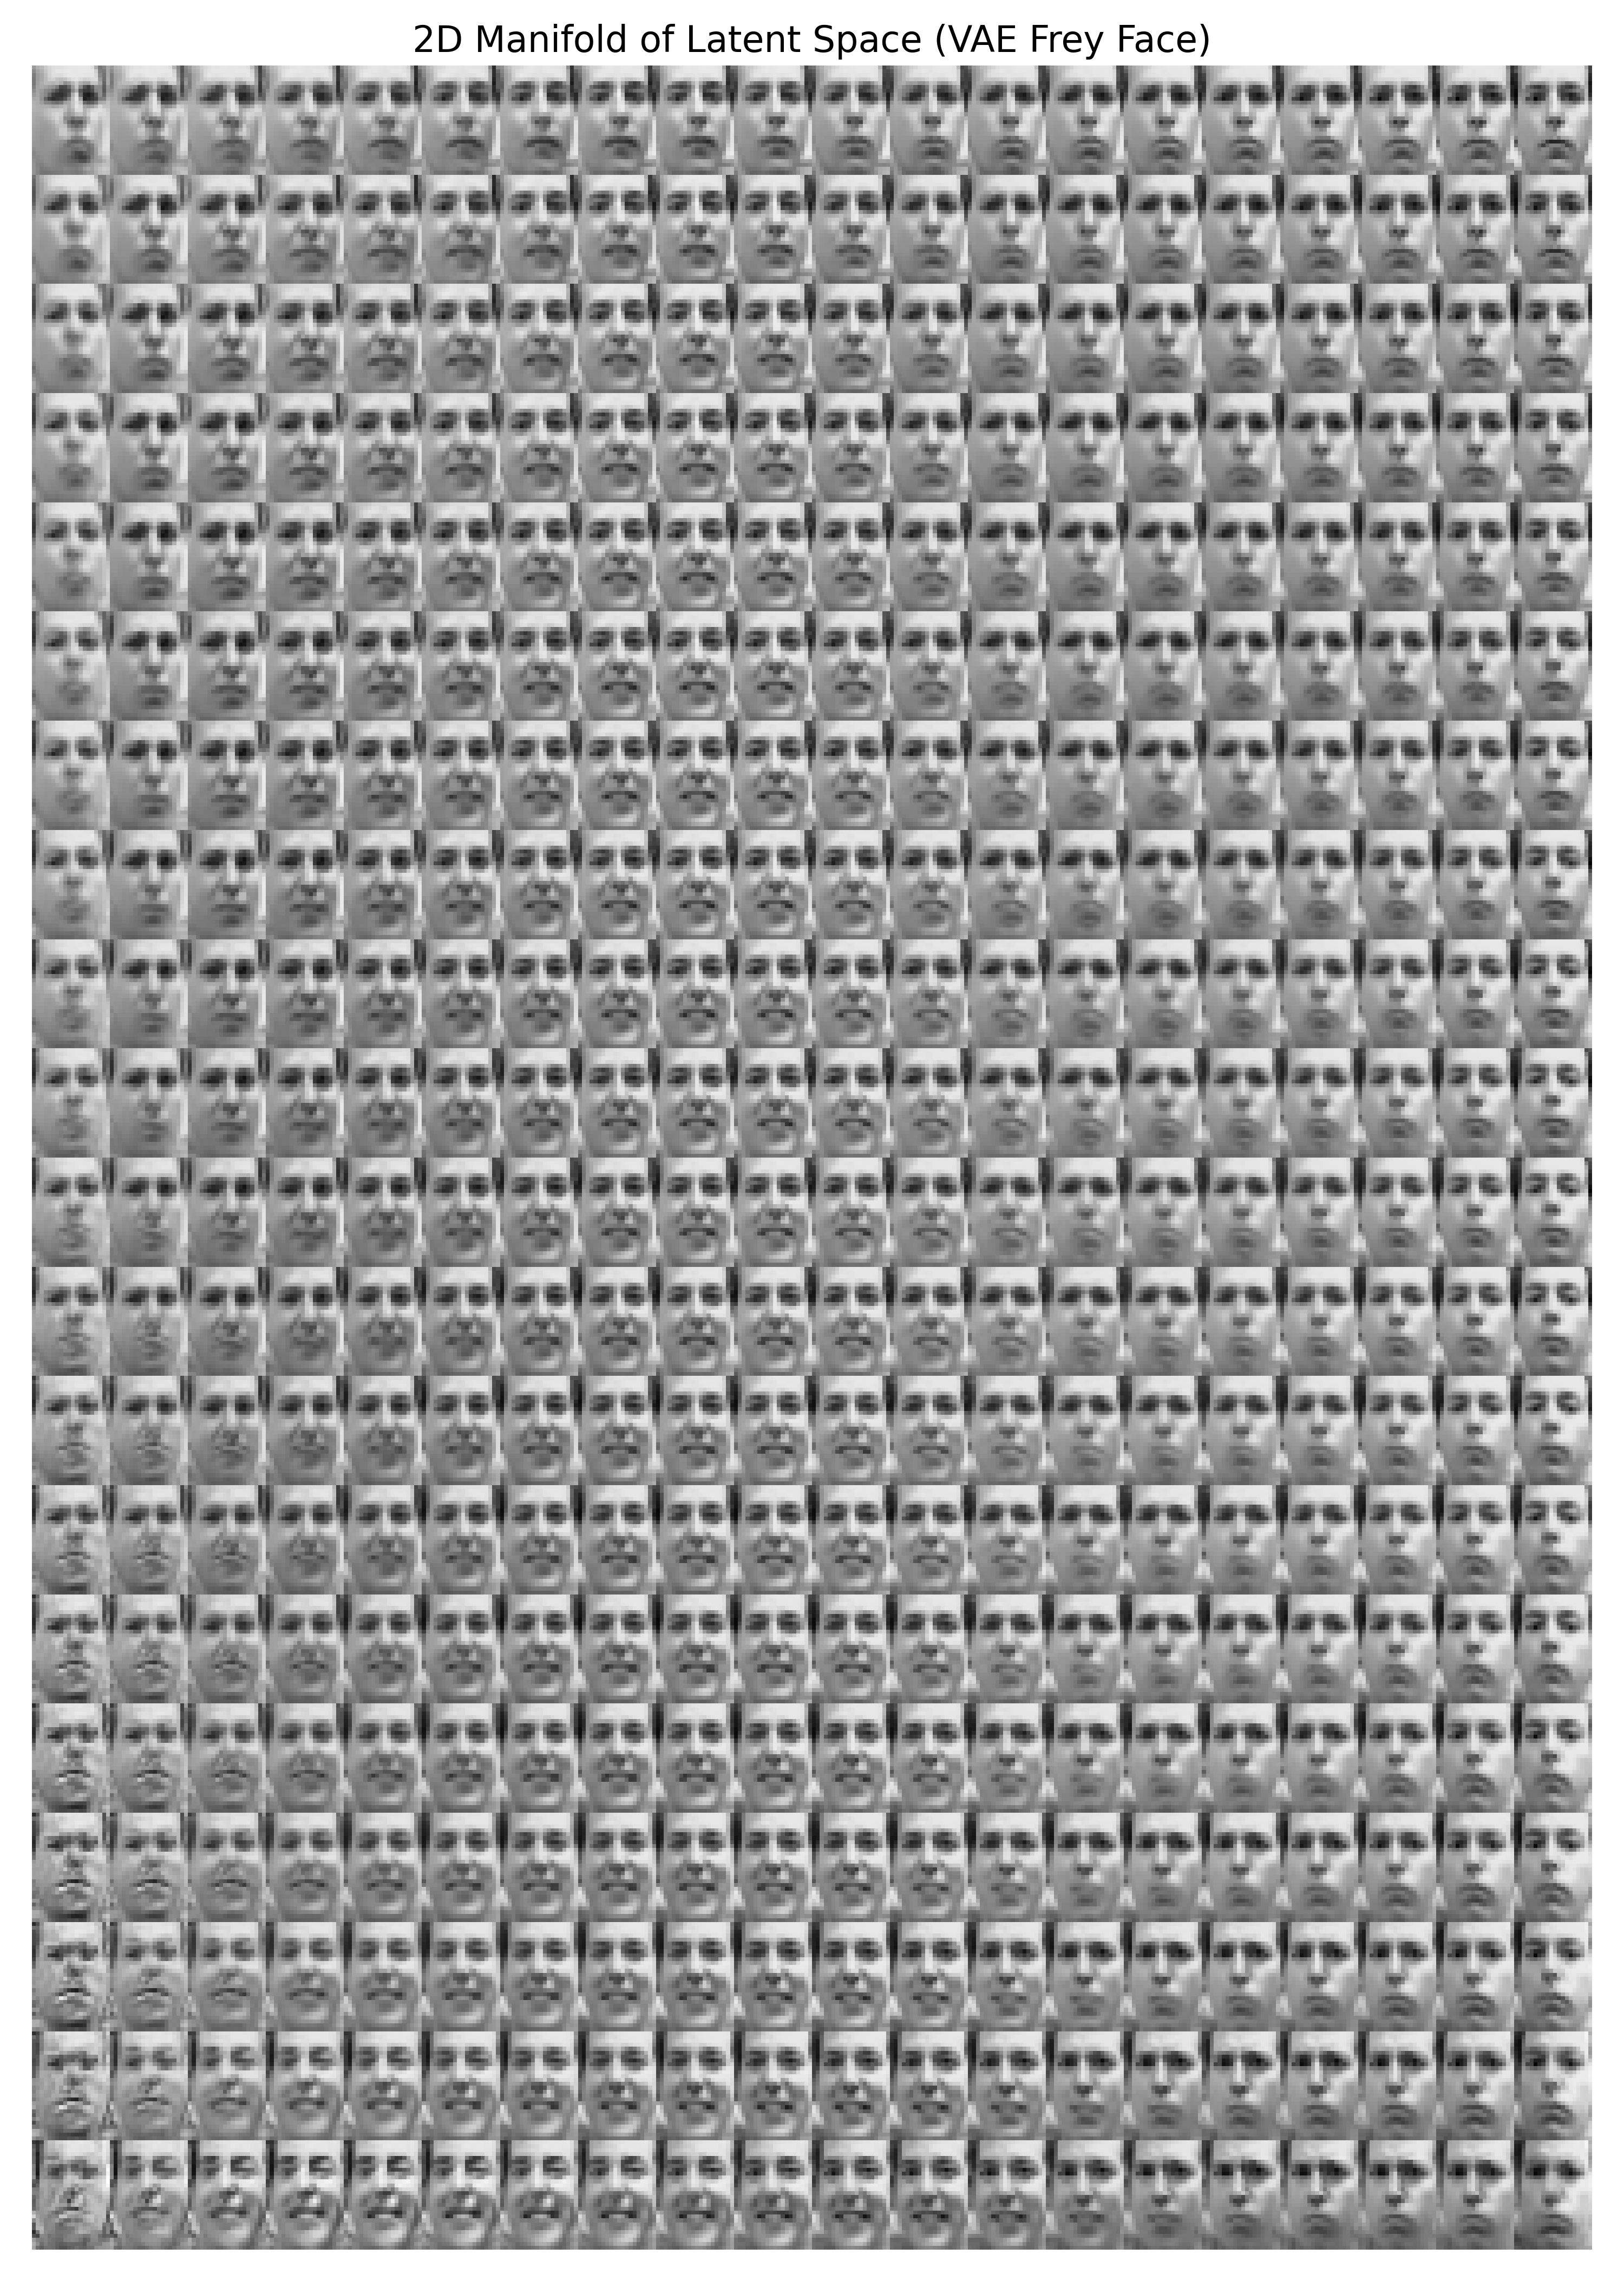
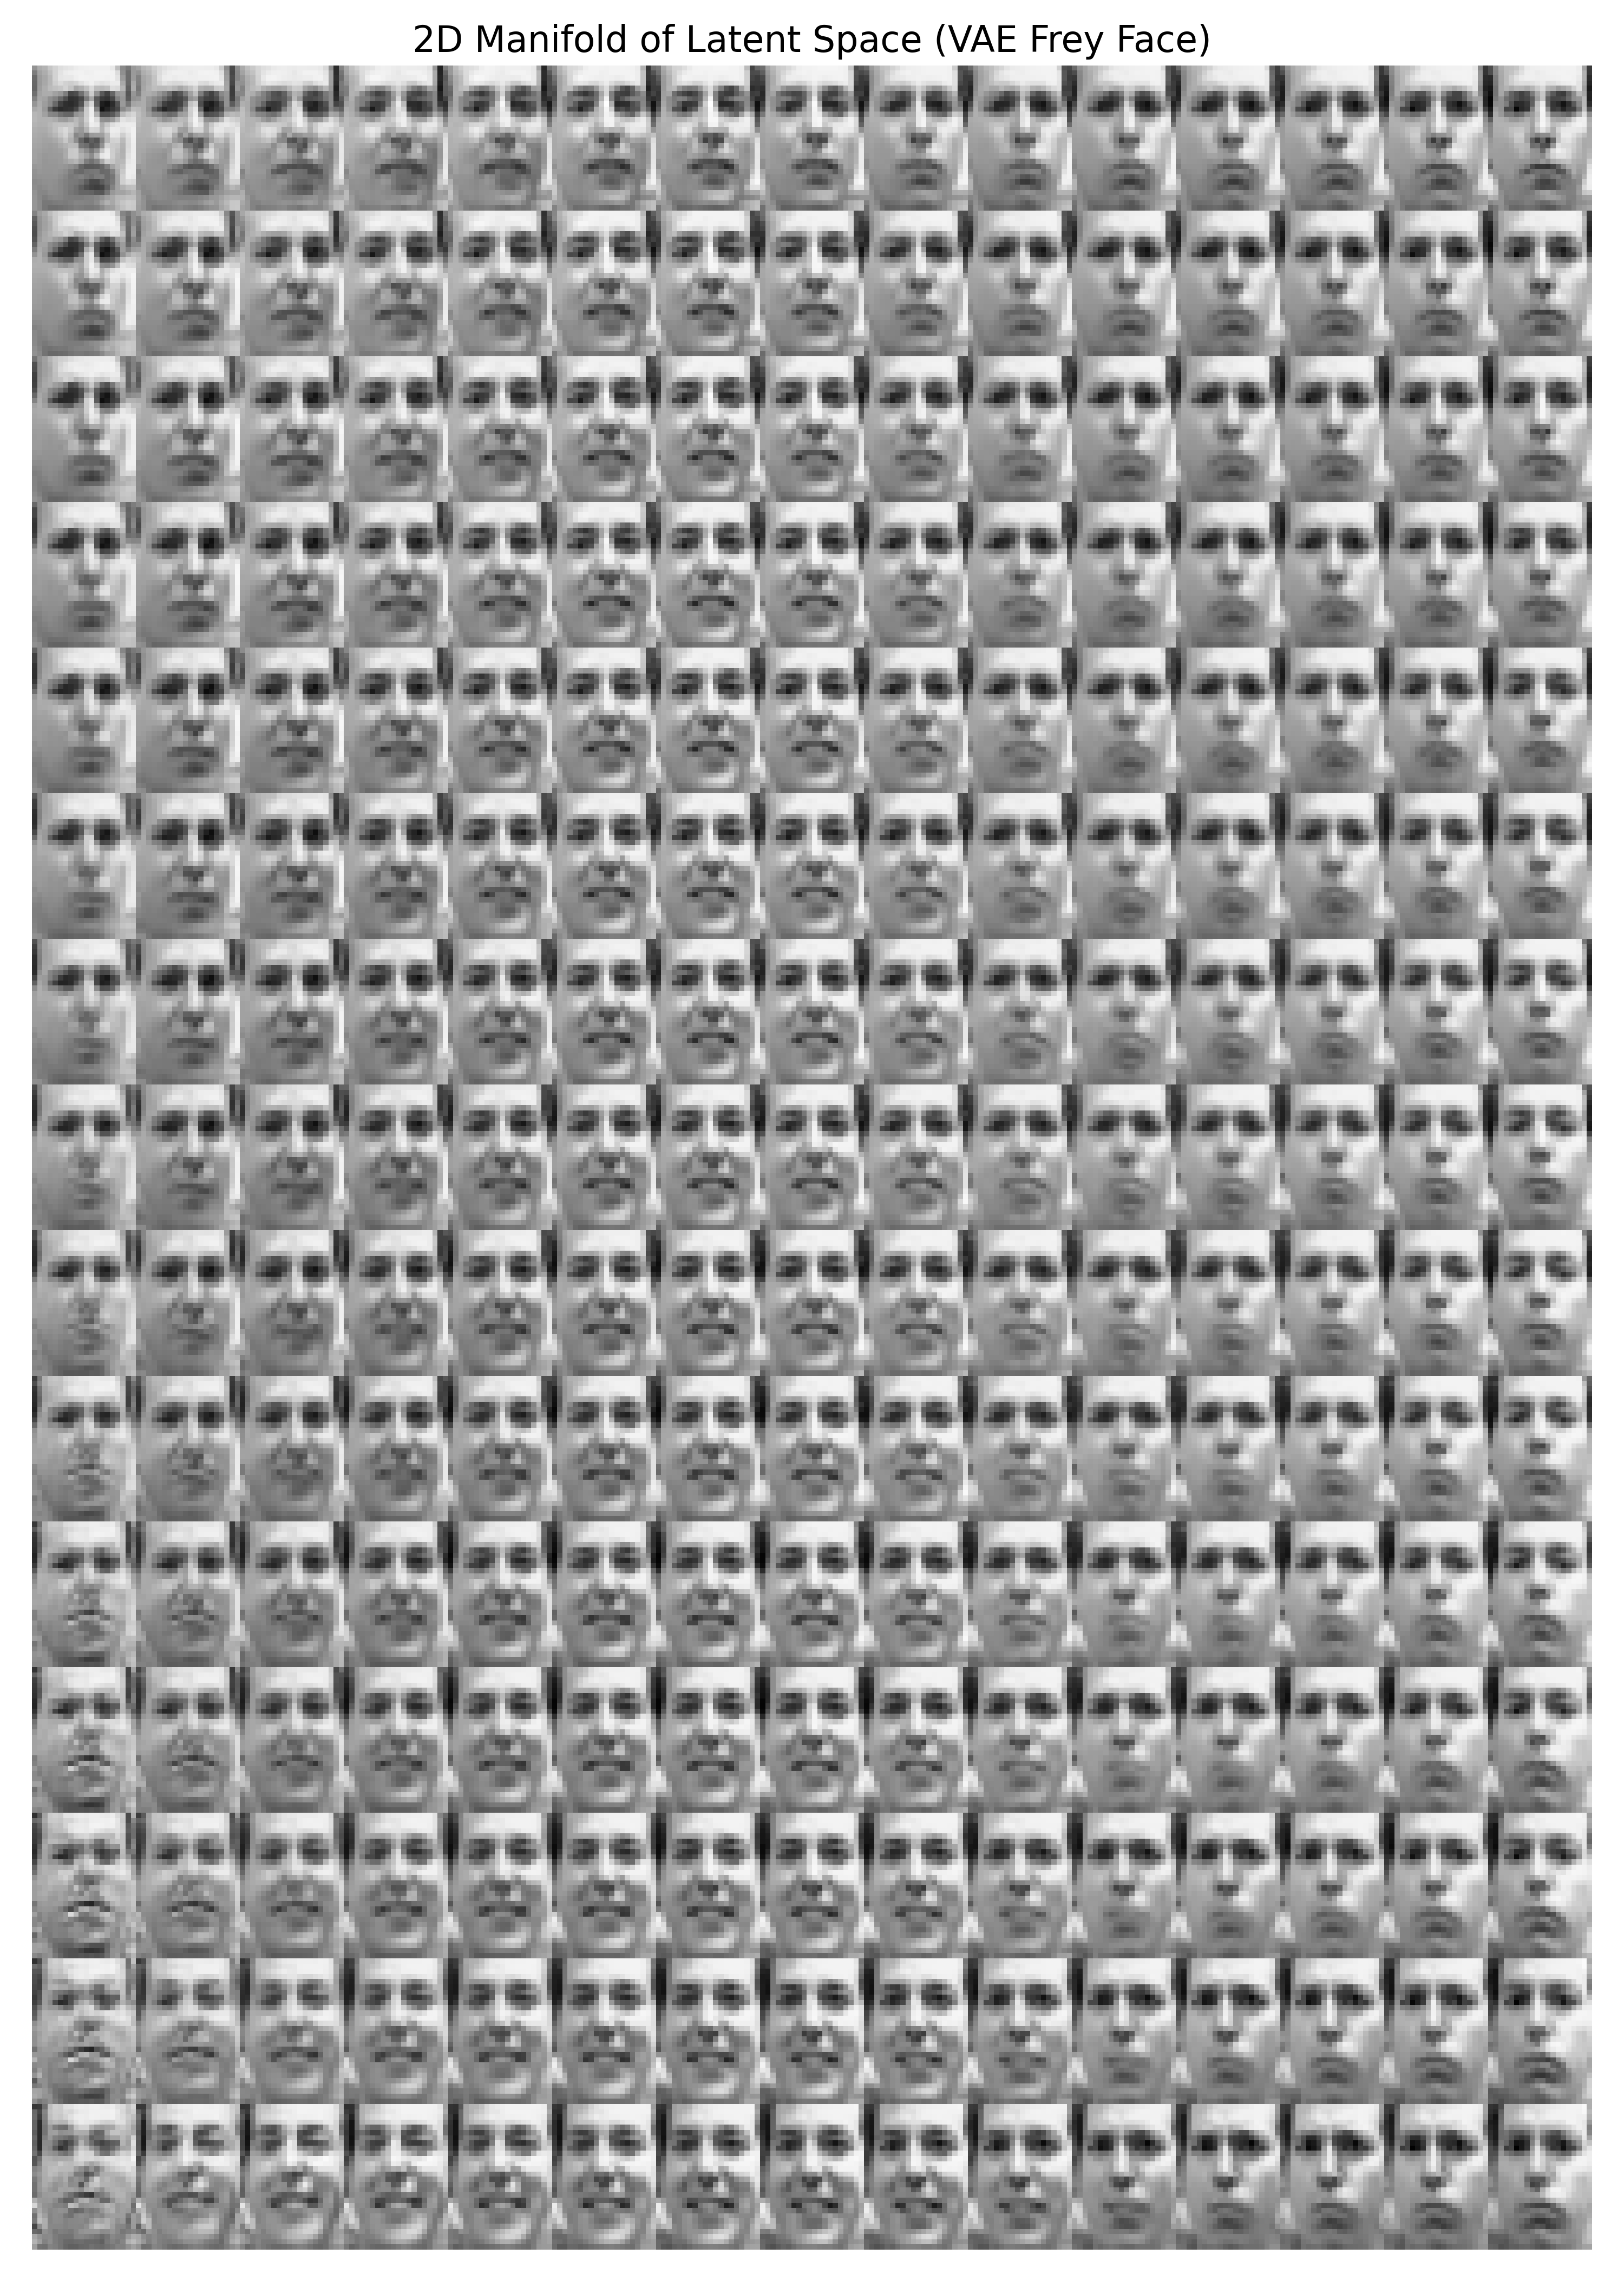
added readme with some results

diff --git a/models/loss.py b/models/loss.py
@@ -24,10 +24,6 @@ def vae_loss(recon_output, x, mu, log_var, dataset='mnist'):
     # Kullback-Leibler Divergence (KLD)
     # Closed-form solution from Kingma & Welling (2013).
     # This remains exactly the same for all AEVB models.
-    # KLD is the same for both
-    # Kullback-Leibler Divergence (KLD)
-    # Closed-form solution from Kingma & Welling (2013).
-    # This remains exactly the same for all AEVB models.
     KLD = -0.5 * torch.sum(1 + log_var - mu.pow(2) - log_var.exp())
 
     if dataset == 'mnist':
@@ -38,13 +34,7 @@ def vae_loss(recon_output, x, mu, log_var, dataset='mnist'):
         # Unpack the tuple
         recon_mu, recon_log_var = recon_output
 
-        # PREVENT VARIANCE COLLAPSE 
-        # Clamp the log variance so it cannot drop below -3.0 (variance of ~0.05).
-        # This mathematically stops the division-by-zero gradient explosion.
-        # We implemented this because we observed that the training ws unstable and the model was collapsing
         sq_err = (recon_mu - x).pow(2)
-        
-        # The pure, unconstrained math
         recon_loss = 0.5 * torch.sum(math.log(2 * math.pi) + recon_log_var + sq_err / recon_log_var.exp())
         
     total_loss = recon_loss + KLD

diff --git a/generate_manifold_ff.py b/generate_manifold_ff.py
@@ -12,12 +12,11 @@ def plot_frey_manifold():
     latent_dim = 2
     model = VAE(input_dim=560, latent_dim=latent_dim, hidden_dim=200, dataset='frey_face').to(device)
     
-    # IMPORTANT: Update this to point to your actual Frey Face .pth file
     model.load_state_dict(torch.load("checkpoints/aevb_frey_face_2d.pth", weights_only=True))
     model.eval()
 
     # Create the canvas for the 20x20 grid of images
-    n = 20
+    n = 15
     height = 28
     width = 20
     
@@ -25,8 +24,8 @@ def plot_frey_manifold():
     figure = np.zeros((height * n, width * n))
 
     # Generate X and Y axes using the inverse CDF (norm.ppf)
-    grid_x = norm.ppf(np.linspace(0.01, 0.99, n))
-    grid_y = norm.ppf(np.linspace(0.01, 0.99, n))
+    grid_x = norm.ppf(np.linspace(0.05, 0.95, n))
+    grid_y = norm.ppf(np.linspace(0.05, 0.95, n))
 
     with torch.no_grad():
         for i, yi in enumerate(grid_y):

diff --git a/generate_manifold.py b/generate_manifold.py
@@ -20,8 +20,8 @@ def plot_manifold():
 
     # Generate X and Y axes using the inverse CDF (norm.ppf)
     # This distributes points based on the probability of a standard normal N(0,1)
-    grid_x = norm.ppf(np.linspace(0.01, 0.99, n))
-    grid_y = norm.ppf(np.linspace(0.01, 0.99, n))
+    grid_x = norm.ppf(np.linspace(0.05, 0.95, n))
+    grid_y = norm.ppf(np.linspace(0.05, 0.95, n))
 
     with torch.no_grad():
         for i, yi in enumerate(grid_y):

diff --git a/train_wake_sleep_metrics.py b/train_wake_sleep_metrics.py
@@ -145,7 +145,6 @@ def train_wake_sleep(dataset='mnist', latent_dim=20, epochs=50, batch_size=128,
                 recon_mu = model.dec_mu(h_dec)
                 recon_log_var = model.dec_log_var(h_dec)
                 
-                # Apply the variance clamp to prevent gradient explosion!
                 sq_err = (recon_mu - data).pow(2)
                 
                 # Raw math

diff --git a/README.md b/README.md
@@ -1,0 +1,327 @@
+# Variational Autoencoders (VAE)
+
+This project implements Variational Autoencoders for unsupervised learning, comparing two training approaches: the modern AEVB algorithm and the classical Wake-Sleep algorithm. Experiments are performed on two datasets with different observation models: MNIST (Bernoulli) and Frey Face (Gaussian).
+
+## Developers
+
+Gerardo Obeid Guzmán
+Jorge Echeverría de Uribarri
+
+## Papers Cited
+
+- **Auto-Encoding Variational Bayes** (Kingma & Welling, 2013)
+  - Primary reference for the AEVB training algorithm using the reparameterization trick
+  - Details on the ELBO objective and the theoretical foundation of VAEs
+
+- **The Wake-Sleep Algorithm for Unsupervised Neural Networks** (Hinton et al., 1995)
+  - Classical alternative training approach demonstrating separate update phases
+  - Provides historical context and comparison baseline
+
+## Project Structure
+
+```
+vae/
+├── models/
+│   ├── vae.py               # VAE architecture (dataset-specific decoders)
+│   └── loss.py              # Negative ELBO loss (Bernoulli or Gaussian)
+├── utils/
+│   ├── get_dataset.py       # MNIST data loading
+│   ├── dataset.py           # Custom dataset for binarized MNIST
+│   └── frey_face.py         # Frey Face dataset loading
+├── data/                    # Datasets (auto-downloaded)
+├── checkpoints/             # Saved model weights
+├── results/                 # Generated visualizations and metrics
+├── train_aevb_metrics.py    # AEVB training with metrics tracking
+├── train_wake_sleep_metrics.py # Wake-Sleep training with metrics tracking
+├── train_all_parallel.py    # Parallel training pipeline (ThreadPoolExecutor)
+├── generate.py              # Generate random samples from latent space
+├── generate_manifold.py     # Visualize 2D latent space manifold (MNIST)
+├── generate_manifold_ff.py  # Visualize 2D latent space manifold (Frey Face)
+├── plot_comparison.py       # Plot AEVB vs Wake-Sleep comparison (Figure 2)
+├── model_complexity.py      # Analyze model complexity vs performance trade-off
+└── requirements.txt         # Python dependencies
+```
+
+## Key Features
+
+### VAE Architecture
+
+#### Encoder (Shared across all datasets)
+
+- **Architecture**: 1-layer MLP (input_dim → hidden_dim → latent_dim)
+- **Hidden dim**: 500 (MNIST), 200 (Frey Face)
+- **Outputs**: Mean (μ) and log-variance (log σ²) of latent Gaussian distribution
+
+#### Decoder (Dataset-Specific)
+
+**MNIST - Bernoulli Decoder**
+
+- **Architecture**: 2-layer MLP (latent_dim → hidden_dim → 784)
+- **Output activation**: Sigmoid (produces [0,1] probabilities)
+- **Observation model**: p(x|z) = Bernoulli per pixel (binary values)
+- **Loss function**: Binary cross-entropy (BCE)
+
+**Frey Face - Gaussian Decoder**
+
+- **Architecture**: Shared hidden layer (latent_dim → hidden_dim → Tanh), then split heads:
+  - Mean head: (hidden_dim → 560, Sigmoid)
+  - Variance head: (hidden_dim → 560)
+- **Output activation**: Sigmoid on mean (constrain to [0,1]), unrestricted variance
+- **Observation model**: p(x|z) = Gaussian per pixel (continuous values)
+- **Loss function**: Gaussian negative log-likelihood
+
+#### Latent Distribution
+
+- **Prior**: Standard Gaussian p(z) = N(0, I)
+- **Posterior**: Learned Gaussian q(z|x) = N(μ(x), diag(σ²(x)))
+
+### Training Methods
+
+#### AEVB (Auto-Encoding Variational Bayes)
+
+Joint optimization of encoder and decoder using the reparameterization trick:
+
+- **Objective**: Minimize negative ELBO: `-E_q[log p(x|z)] + KL[q(z|x) || p(z)]`
+- **Reparameterization**: z = μ(x) + σ(x) ⊙ ε, where ε ~ N(0,I)
+- **Optimization**: Single optimizer (Adagrad with weight decay) updates both encoder and decoder simultaneously
+- **Reconstruction Loss**:
+  - MNIST: Binary cross-entropy (Bernoulli decoder)
+  - Frey Face: Gaussian negative log-likelihood
+- **Reference**: Modern, efficient approach (Kingma & Welling, 2013)
+
+#### Wake-Sleep Algorithm
+
+Alternating optimization of encoder and decoder with separate phases and optimizers:
+
+- **Wake Phase** (optimize decoder p(x|z)):
+  - Sample z ~ q(z|x) from encoder (no gradients through posterior)
+  - Minimize reconstruction loss:
+    - MNIST: Binary cross-entropy (Bernoulli probabilities)
+    - Frey Face: Gaussian NLL with Sigmoid-constrained mean
+- **Sleep Phase** (optimize encoder q(z|x)):
+  - Sample z ~ p(z) from prior N(0,I)
+  - **Generate dreamed data** x̃ ~ p(x|z):
+    - MNIST: Bernoulli sampling (convert probabilities to binary via sampling)
+    - Frey Face: Gaussian sampling with reparameterization trick
+  - Minimize encoder's Gaussian NLL: make q(z|x̃) assign high density to z that generated the dream
+- **Optimization**: Separate Adagrad optimizers (with weight decay) for generative and recognition models
+- **Reference**: Historical baseline showing separate-phase optimization (Hinton et al., 1995)
+
+## Usage
+
+### Quick Start: Single Model Training
+
+#### Train AEVB on MNIST
+
+```bash
+python train_aevb_metrics.py --dataset mnist --latent_dim 20 --epochs 50
+```
+
+#### Train Wake-Sleep on Frey Face
+
+```bash
+python train_wake_sleep_metrics.py --dataset frey_face --latent_dim 20 --epochs 50
+```
+
+### Full Experimental Pipeline (Parallel Training)
+
+To reproduce all experiments and generate Figure 2 comparison plot:
+
+```bash
+python train_all_parallel.py
+```
+
+This will:
+
+1. Train all 18 configurations in parallel (9 workers):
+   - **MNIST**: Nz ∈ {3, 5, 10, 20, 200} with AEVB & Wake-Sleep
+   - **Frey Face**: Nz ∈ {2, 5, 10, 20} with AEVB & Wake-Sleep
+2. Save metrics to `results/metrics/` (format: `{method}_{dataset}_{latent_dim}d_metrics.json`)
+3. Automatically generate comparison plot at `results/comparison_aevb_vs_wake_sleep.png`
+
+### Manual Configuration-by-Configuration
+
+For individual experiments or troubleshooting:
+
+```bash
+# MNIST with increasing latent dimensions
+python train_aevb_metrics.py --dataset mnist --latent_dim 3 --epochs 200 --batch_size 100 --lr 0.02
+python train_wake_sleep_metrics.py --dataset mnist --latent_dim 3 --epochs 200 --batch_size 100 --lr 0.02
+
+# Frey Face (uses more epochs for convergence)
+python train_aevb_metrics.py --dataset frey_face --latent_dim 2 --epochs 6107 --batch_size 100 --lr 0.02
+python train_wake_sleep_metrics.py --dataset frey_face --latent_dim 2 --epochs 6107 --batch_size 100 --lr 0.02
+
+# Generate comparison plot after training
+python plot_comparison.py
+```
+
+### Other Utilities
+
+#### Generate random samples
+
+```bash
+python generate.py
+```
+
+#### Visualize 2D latent space manifold (MNIST)
+
+```bash
+python generate_manifold.py
+```
+
+Output: `results/manifold_vae_mnist.png` (15×15 grid of generated digits)
+
+#### Visualize 2D latent space manifold (Frey Face)
+
+```bash
+python generate_manifold_ff.py
+```
+
+Requirements: Trained AEVB model with latent_dim=2 at `checkpoints/aevb_frey_face_2d.pth`
+Output: `results/manifold_vae_freyface.png` (15×15 grid of generated faces)
+
+#### Analyze model complexity vs performance
+
+```bash
+python model_complexity.py
+```
+
+Creates a table and dual-axis plot showing:
+
+- Parameter count growth across latent dimensions (log scale)
+- Final train/test ELBO scores for convergence comparison
+- Outputs: `results/complexity_vs_overfitting.png` and printed markdown table
+
+## Key Implementation Details
+
+### Hyperparameters
+
+- **Batch Size**: 100 (matches paper exactly)
+- **Learning Rate**: 0.02 (Adagrad with weight decay)
+- **Weight Decay**: 1e-4 (implements N(0, I) prior)
+- **Latent Samples (L)**: 1 sample per datapoint; large batch provides natural gradient noise
+
+### Decoder Configuration
+
+| Dataset   | Architecture                | Output Activation       | Loss Function        | Sampling (Sleep)              |
+| --------- | --------------------------- | ----------------------- | -------------------- | ----------------------------- |
+| MNIST     | 2-layer MLP                 | Sigmoid (probabilities) | Binary cross-entropy | Bernoulli                     |
+| Frey Face | Split heads (mean/variance) | Sigmoid mean            | Gaussian NLL         | Gaussian (reparameterization) |
+
+### Optimizer Configuration
+
+- **AEVB**: Single Adagrad optimizer for all parameters
+- **Wake-Sleep**: Separate Adagrad optimizers for:
+  - Generative model (decoder parameters)
+  - Recognition model (encoder parameters)
+
+## Results
+
+### Comparison Plot (Figure 2 from Kingma & Welling)
+
+The comparison plot shows training efficiency (negative ELBO vs samples evaluated) across latent dimensions:
+
+**Top row**: MNIST (Bernoulli decoder)
+
+- 5 subplots for Nz = {3, 5, 10, 20, 200}
+- AEVB generally converges faster than Wake-Sleep
+- Faster convergence at lower latent dimensions
+
+**Bottom row**: Frey Face (Gaussian decoder)
+
+- 4 subplots for Nz = {2, 5, 10, 20}
+- Similar efficiency gap between methods
+- Slower convergence due to continuous image pixels and variance learning
+
+**Legend**:
+
+- Red solid = AEVB train loss
+- Red dashed = AEVB test loss
+- Green solid = Wake-Sleep train loss
+- Green dash-dot = Wake-Sleep test loss
+
+**Key Observations**:
+
+- AEVB shows smooth, stable convergence across all latent dimensions
+- Wake-Sleep converges but with more variability in the sleep phase
+- Frey Face (Gaussian) requires longer training than MNIST (Bernoulli) due to variance estimation
+- Both methods show generalization gap (train < test in negative ELBO space)
+
+Output: `results/comparison_aevb_vs_wake_sleep.png`
+
+#### Comparison Plot (AEVB vs Wake-Sleep)
+
+![Comparison Plot](results/comparison_aevb_vs_wake_sleep.png)
+
+### Generated Samples from Latent Space
+
+The VAE learns to generate realistic samples by sampling from the latent distribution N(0, I).
+
+#### MNIST Generated Digits (Bernoulli Decoder)
+
+With increasing latent dimensions, the model captures more structure:
+
+| Nz=2                                       | Nz=5                                       | Nz=10                                        | Nz=20                                        |
+| ------------------------------------------ | ------------------------------------------ | -------------------------------------------- | -------------------------------------------- |
+| ![2D digits](results/random_digits_2d.png) | ![5D digits](results/random_digits_5d.png) | ![10D digits](results/random_digits_10d.png) | ![20D digits](results/random_digits_20d.png) |
+
+### Latent Space Manifolds (2D Visualization)
+
+Traversing the 2D latent space reveals smooth transitions between generated samples:
+
+#### MNIST Manifold
+
+![MNIST Manifold](results/manifold_vae_mnist.png)
+_15×15 grid showing smooth transitions in the 2D latent space. Both AEVB-trained and Wake-Sleep-trained models with Nz=2 produce similar manifold structure._
+
+#### Frey Face Manifold
+
+![Frey Face Manifold](results/manifold_vae_freyface.png)
+_15×15 grid of generated faces. The Gaussian decoder captures continuous pixel intensities, allowing the model to generate diverse faces across the latent space._
+
+### Model Complexity vs Performance
+
+Analyzing the trade-off between model parameters and ELBO convergence:
+
+![Complexity Analysis](results/complexity_vs_overfitting.png)
+_Dual-axis plot showing:_
+
+- _Red lines: Train (solid) and Test (dashed) ELBO scores across latent dimensions_
+- _Blue line: Total trainable parameters (log scale)_
+- _Higher latent dimensions increase capacity but require more data to avoid overfitting_
+
+## Datasets
+
+### MNIST (Bernoulli)
+
+- **Size**: 70,000 handwritten digits (60K train, 10K test)
+- **Dimensions**: 28×28 images flattened to 784 pixels
+- **Preprocessing**: Binarized at 0.5 threshold (x ∈ {0, 1})
+- **Model**: Bernoulli decoder with sigmoid output
+- **Loss**: Binary cross-entropy per pixel
+- **Auto-downloaded** on first run from torchvision
+
+### Frey Face (Gaussian)
+
+- **Size**: 1,965 face images (80/20 train/test split)
+- **Dimensions**: 28×20 pixels flattened to 560 dimensions
+- **Preprocessing**: Normalized to [0, 1] float32 (continuous)
+- **Model**: Gaussian decoder with mean and variance outputs
+- **Loss**: Gaussian negative log-likelihood
+- **Source**: GitHub mirrors (built-in downloader with fallback URLs)
+
+## Implementation Notes
+
+### Why Different Decoders?
+
+The choice of decoder type reflects the nature of the data:
+
+- **MNIST (Binary)**: Each pixel is binarized to {0, 1}, so we model p(x|z) as a product of Bernoullis. Sigmoid output naturally produces probabilities [0, 1].
+- **Frey Face (Continuous)**: Pixel intensities are continuous in [0, 1], so we model p(x|z) as a product of Gaussians with learnable variance. This allows the model to express uncertainty about pixel values and prevents variance collapse.
+
+## References
+
+Kingma, D. P., & Welling, M. (2013). Auto-encoding variational bayes. arXiv preprint arXiv:1312.6114.
+
+Hinton, G. E., Dayan, P., Frey, B. J., & Neal, R. M. (1995). The "wake-sleep" algorithm for unsupervised neural networks. Science, 268(5214), 1158-1161.